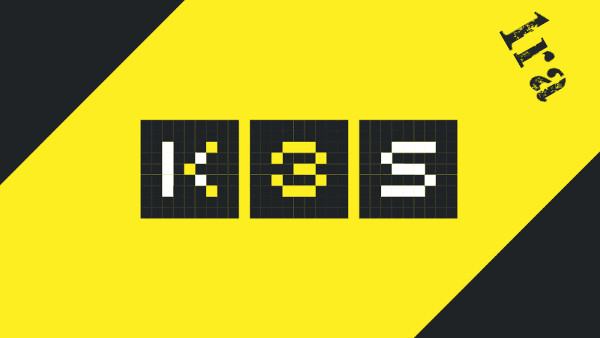
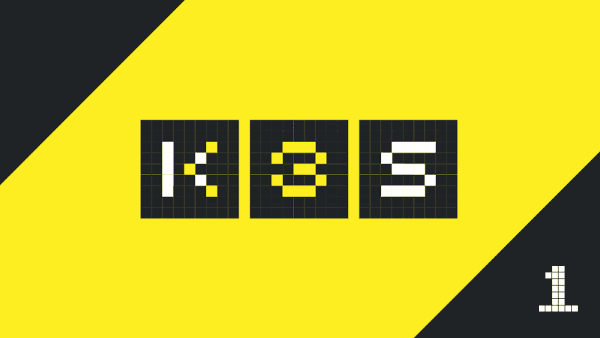
beta version article k3s

Changed region(s): [[0.81, 0.0296, 0.96, 0.2959], [0.9, 0.7692, 0.96, 0.9467]]

diff --git a/content/post/infrastructure/k3s-notes-second.en.md b/content/post/infrastructure/k3s-notes-second.en.md
@@ -16,122 +16,133 @@ series = ["Servidores"]
 thumbnail = "images/k3s-kubernetes/k3s-kubernetes-part-2.png"
 +++
 
-Experimentando con [**Docker Swarm**](https://docs.docker.com/engine/swarm/) me puse a la tarea de armar algo con los [**Raspberry Pi (RPI v3, RPI v4)**](https://www.raspberrypi.org/) que tengo en mi laboratorio, luego de estar googleando y charlando con [**Sergio**](https://twitter.com/donkeysharp), me recomendó usar [**K3s**](https://k3s.io/) que es una distribución de [**Kubernetes**](https://kubernetes.io/) con backend de almacenamiento ligero basado en [**sqlite3**](https://www.sqlite.org/index.html) compatible con arquitectura [**ARM**](https://en.wikipedia.org/wiki/ARM_architecture).
+We continue with the tests in our small cluster with [**K3s**](https://k3s.io/) built on the [**Raspberry Pi (RPI v3, RPI v4)**](https://www.raspberrypi.org/) that I have in my laboratory, for the tests we use the official [**K3s - Rancher**](https://rancher.com/docs/k3s/latest/en/) documentation and also the official [**Kubernetes**](https://kubernetes.io/docs/tutorials/kubernetes-basics/) documentation.
 
 <!--more-->
 
 ![](/images/k3s-kubernetes/k3s-rpi-v3-v4.jpg)
 
-Revisamos la documentación oficial de [**K3s**](https://rancher.com/docs/k3s/latest/en/) y pude armar mi laboratorio, el tipo de ejercicio que se desarrollara sera un **Server node** y cuatro **Worker nodes** con la  base de datos [**sqlite3**](https://www.sqlite.org/index.html).
+In the image we have as a detail:
 
-## Arquitectura
+1. **Three Raspberry Pi 4, Model B** (1 Server Node and 2 Worker Nodes).
+2. **Two Raspberry Pi 3, Model B** (2 Worker Nodes,).
+3. One **8-port Tp-Link TL-SG1008D Gigabit Desktop Switch**.
 
-Existen dos tipos de nodos:
+## Basic concepts
 
-1. **Server node**, es el nodo que ejecuta **K3s server**.
-2. **Worker node**, es el nodo que ejecuta **K3s agent**.
+With the Kubernetes components:
 
-También existen dos formas de implementación:
+![](/images/k3s-kubernetes/components-of-kubernetes.png)
 
-1. **Un solo servidor con una base de datos integrada**, en esta configuración, cada nodo de agente está registrado en el mismo **Server node**.
+We can describe some important components:
 
-![](/images/k3s-kubernetes/k3s-architecture-single-server.png)
+1. **kube-apiserver**: The API server is a component of the Kubernetes control plane that exposes the Kubernetes API. The API server is the front end for the Kubernetes control plane.
+2. **etcd**: Consistent, highly available *key-value* database used as the Kubernetes backing store for all data in the cluster.
+3. **kube-scheduler**: A control plane component that searches for newly created pods without an assigned node and selects a node to run.
+4. **kube-controller-manager**: Control plane component that runs controller processes.
 
-2. **Servidor K3s de Alta Disponibilidad con una base de datos externa**, que se compone de:
+    - *Node controller*: Responsible for noticing and responding when nodes go down.
+    - *Job controller*: Watches for Job objects that represent one-off tasks, then creates Pods to run those tasks to completion.
+    - *Endpoints controller*: Populates the Endpoints object (that is, joins Services & Pods).
+    - *Service Account & Token controllers*: Create default accounts and API access tokens for new namespaces.
 
-   - Dos o más **nodos de servidor** que servirán a la API de **Kubernetes** y ejecutarán otros servicios del plano de control.
-   - Un **almacén de datos externo** (a diferencia del almacén de datos SQLite incorporado que se usa en configuraciones de un solo servidor).
+5. **cloud-controller-manager**: A Kubernetes control plane component that incorporates cloud-specific control logic (runs in a single process with *kube-controller-manager*).
 
-![](/images/k3s-kubernetes/k3s-architecture-ha-server.png)
+    - *Node controller*: For checking the cloud provider to determine if a node has been deleted in the cloud after it stops responding.
+    - *Route controller*: For setting up routes in the underlying cloud infrastructure.
+    - *Service controller*: For creating, updating and deleting cloud provider load balancers.
 
-2.1 **Direcciones de registro fija para nodos agente**
+6. **kubelet**: An agent running on each node in the cluster ensures that the containers run on a Pod.
+7. **kube-proxy**: It is a network proxy that runs on every node in your cluster, implementing part of the Kubernetes service concept.
+8. **container runtime**: The container runtime is the software responsible for running the containers.
+9. **kube-scheduler**: A control plane component that searches for newly created pods without an assigned node and selects a node to run.
 
-En la configuración del servidor de alta disponibilidad, cada nodo también debe registrarse con la API de **Kubernetes** mediante una dirección de registro fija, después del registro, los nodos del agente establecen una conexión directamente con uno de los **Server nodes**.
+## Install Kubectl
 
-![](/images/k3s-kubernetes/k3s-production-setup.svg)
-
-## Configuraciones Previas
-
-- [**Configuraciones necesarias RPI**](https://rancher.com/docs/k3s/latest/en/advanced/#enabling-legacy-iptables-on-raspbian-buster): Antes de instalar los binarios de [**K3s**](https://k3s.io/) es necesario realizar unas configuraciones extra en el sistema operativo de las [**Raspberry Pi**](https://www.raspberrypi.org/), utilizaremos **Raspbian Buster** para este laboratorio.
-
-- **Habilitar iptables heredados en Raspbian Buster**
-
-**Raspbian Buster** utiliza de forma predeterminada en **nftables** en lugar de **iptables**. Las funciones de red de **K3s** requieren **iptables** y no funcionan con **nftables**, para solucionar este problema debemos realizar el cambio correspondiente.
-
-```bash
-$ sudo iptables -F
-$ sudo update-alternatives --set iptables /usr/sbin/iptables-legacy
-$ sudo update-alternatives --set ip6tables /usr/sbin/ip6tables-legacy
-$ sudo reboot
-```
-
-- **Habilitando cgroups para Raspbian Buster**
-
-Las instalaciones estándar de **Raspbian Buster** no se inicializan con **cgroups** habilitado. **K3s** necesita **cgroups** inicializado como un servicio systemd. Se puede habilitar **cgroups** agregando **cgroup_memory=1** y **cgroup_enable=memory** en **/boot/cmdline.txt**.
-
-```text
-# Dentro del archivo cmdline.txt
-console=serial0,115200 console=tty1 root=PARTUUID=58b06195-02 rootfstype=ext4 elevator=deadline fsck.repair=yes rootwait cgroup_memory=1 cgroup_enable=memory
-```
-
-Con estos cambios aplicados se debe reiniciar el sistema operativo en los **Raspberry Pi**.
-
-## Instalación del Server node
-
-Según la documentación oficial podemos utilizar los scripts oficiales para instalar los binarios para el **Server node** de **K3s**:
+In order to work with our [K3s](https://k3s.io/) **RPI** cluster, we can work from the **Server Node** or install [kubectl](https://kubernetes.io/docs/tasks/tools/install-kubectl-linux/) on our personal computer, in this case we will install the package for a [GNU/Linux](https://www.gnu.org/home.en.html) distribution, [**Debian Buster 10**](https://debian.org), adding the repository as follows:
 
 ```bash
-$ curl -sfL https://get.k3s.io | sh -
+# Update and install the necessary packages
+$ sudo apt-get update
+$ sudo apt-get install -y apt-transport-https ca-certificates curl
+# We download the public signature key
+$ sudo curl -fsSLo /usr/share/keyrings/kubernetes-archive-keyring.gpg https://packages.cloud.google.com/apt/doc/apt-key.gpg
+# Add the official repository
+$ echo "deb [signed-by=/usr/share/keyrings/kubernetes-archive-keyring.gpg] https://apt.kubernetes.io/ kubernetes-xenial main" | sudo tee /etc/apt/sources.list.d/kubernetes.list
+# Update again and install the package
+$ sudo apt install update
+$ sudo apt install -y kubectl
 ```
 
-Este script instalará todas la herramientas necesarias como: 
+## Kubectl Configuration with Cluster K3s
 
-- **kubectl**
-- **crictl**
-- **ctr**
-- **k3s-killall.sh**
-- **k3s-uninstall.sh**
-
-También creara el archivo de configuración **/etc/rancher/k3s/k3s.yaml**
-
-## Instalación de Worker Nodes
-
-Luego de la instalación del servidor **K3s** podemos agregar nodos: 
+To work from our personal computer, we have to create a configuration file inside the **.kube** folder, the configuration file must have the name **config**, the folder and the file must be created with the appropriate permissions :
 
 ```bash
-$ curl -sfL https://get.k3s.io | K3S_URL=https://myserver:6443 K3S_TOKEN=mynodetoken sh -
+$ mkdir ~/.kube
+$ touch ~/.kube/config
+$ chmod 775 ~/.kube
+$ chmod 420 ~/.kube/config
 ```
 
-donde:
+The content of the **config** file should look like this:
 
-- **K3S_URL**: Esta es la dirección IP o el dominio del servidor **K3s**.
-- **K3S_TOKEN**: Es un token que se almacena en el servidor **K3s**, **/var/lib/rancher/k3s/server/node-token**
-- Es necesario que el hostname de los nuevos nodos sean diferentes.
-
-## Operaciones Básicas
-
-Podemos ejecutar los comandos comunes de **Kubernetes** o utilizar el comando **K3s**, a estos dos comandos debemos anteponerle el comando **sudo** para que se ejecuten las ordenes sin problemas.
-
-```bash
-$ sudo k3s kubectl get nodes
-# o también
-$ sudo kubectl get nodes
-$ sudo kubectl get pods --all-namespaces
+```yaml
+apiVersion: v1
+clusters:
+- cluster:
+    certificate-authority-data: CERTIFICATE_CONTENT
+    server: https://IP_OR_DOMAIN:6443
+  name: default
+contexts:
+- context:
+    cluster: default
+    user: default
+  name: default
+current-context: default
+kind: Config
+preferences: {}
+users:
+- name: default
+  user:
+    client-certificate-data: CERTIFICATE_CONTENT
+    client-key-data: CERTIFICATE_CONTENT_KEY
 ```
 
-Control daemon:
+This data can be obtained from the **Server Node**, exactly the data is in **/etc/rancher/k3s/k3s.yaml**.
+
+## Testing After Installation
+
+From our local computer we can execute the following commands:
 
 ```bash
-$ sudo systemctl status k3s
-$ sudo systemctl stop k3s
+$ kubectl version
+# If there is a problem with the previous command we can execute:
+$ kubectl version --client=true
+```
+
+If everything is correct we will have an output similar to this:
+
+![](/images/k3s-kubernetes/kubectl-version-tests-v2.png)
+
+Comandos útiles para iniciar:
+
+```bash
+# Obtener ayuda
+$ kubectl --help
+# Listar todos los contextos en su archivo kubeconfig
+$ kubectl config get-contexts
+# Listar todos los nodos disponibles
+$ kubectl get nodes
 ```
 
 ## Referencias
 
-- [**Inicio Rapido**](https://rancher.com/docs/k3s/latest/en/quick-start/)
-- [**Configuración del Servidor**](https://rancher.com/docs/k3s/latest/en/installation/install-options/server-config/)
-- [**Opciones de Instalación**](https://rancher.com/docs/k3s/latest/en/installation/install-options/)
+- [**Quick start**](https://rancher.com/docs/k3s/latest/en/quick-start/)
 - [**Kube Dashboard**](https://rancher.com/docs/k3s/latest/en/installation/kube-dashboard/)
 - [**Docs K3S**](https://rancher.com/docs/)
-- [**Web Oficial**](https://k3s.io/)
-- [**Arquitectura**](https://rancher.com/docs/k3s/latest/en/architecture/)
+- [**Kubernetes Concepts**](https://kubernetes.io/docs/concepts/_print/)
+- [**Docs Kubernetes**](https://kubernetes.io/docs/tutorials/kubernetes-basics/)
+- [**etcd**](https://etcd.io/)
+- [**Cluster Admin Access**](https://rancher.com/docs/rancher/v2.x/en/cluster-admin/cluster-access/kubectl/)
+- [**Cluster Accesss**](https://rancher.com/docs/k3s/latest/en/cluster-access/)

diff --git a/content/post/infrastructure/k3s-notes-second.es.md b/content/post/infrastructure/k3s-notes-second.es.md
@@ -40,33 +40,109 @@ Podemos describir algunos componentes importantes:
 2. **etcd**: Base de datos de tipo *clave-valor* consistente y de alta disponibilidad utilizado como almacén de respaldo de Kubernetes para todos los datos del clúster.
 3. **kube-scheduler**: Componente del plano de control que busca pods recién creados sin un nodo asignado y selecciona un nodo para que se ejecuten.
 4. **kube-controller-manager**: Componente del plano de control que ejecuta los procesos del controlador.
-    - *Controlador de nodo*: responsable de notar y responder cuando los nodos se caen.
+
+    - *Controlador de nodo*: Responsable de notar y responder cuando los nodos se caen.
     - *Controlador de trabajo*: Busca objetos de trabajo que representan tareas únicas y luego crea pods para ejecutar esas tareas hasta su finalización.
     - *Controlador de puntos finales*: Completa el objeto de puntos finales (es decir, se une a servicios y pods).
     - *Controladores de cuentas de servicio y tokens*: Crea cuentas predeterminadas y tokens de acceso a la API para nuevos espacios de nombres.
+
 5. **cloud-controller-manager**: Un componente del plano de control de Kubernetes que incorpora una lógica de control específica de la nube (se ejecuta en un solo proceso con *kube-controller-manager*).
 
-    - *Controlador de nodo*: para verificar el proveedor de la nube para determinar si un nodo se ha eliminado en la nube después de que deja de responder
-    - *Controlador de ruta*: para configurar rutas en la infraestructura de nube subyacente
-    - Controlador de servicio*: para crear, actualizar y eliminar equilibradores de carga de proveedores de nube
-6. **kubelet**: Un agente que se ejecuta en cada nodo del clúster. Se asegura de que los contenedores se ejecuten en un Pod.
+    - *Controlador de nodo*: Para verificar el proveedor de la nube para determinar si un nodo se ha eliminado en la nube después de que deja de responder.
+    - *Controlador de ruta*: Para configurar rutas en la infraestructura de nube subyacente.
+    - Controlador de servicio*: Para crear, actualizar y eliminar equilibradores de carga de proveedores de nube.
 
+6. **kubelet**: Un agente que se ejecuta en cada nodo del clúster, se asegura de que los contenedores se ejecuten en un Pod.
 7. **kube-proxy**: Es un proxy de red que se ejecuta en cada nodo de su clúster, implementando parte del concepto de servicio de Kubernetes.
 8. **container runtime**: El tiempo de ejecución del contenedor es el software responsable de ejecutar los contenedores.
+9. **kube-scheduler**: Componente del plano de control que busca pods recién creados sin un nodo asignado y selecciona un nodo para que se ejecuten.
 
-## Configuraciones Previas
+## Instalación Kubectl
 
-## Instalación del Server node
+Para poder trabajar con nuestro cluter **RPI** de [K3s](https://k3s.io/), podemos trabajar desde el **Server Node** o instalar [kubectl](https://kubernetes.io/docs/tasks/tools/install-kubectl-linux/) en nuestra computadora personal, para este caso instalaremos el paquete para una distribución [GNU/Linux](https://www.gnu.org/home.es.html), [Debian Buster 10](https://debian.org) agregando el repositorio de la siguiente forma:
 
-## Instalación de Worker Nodes
+```bash
+# Actualizar e instalar los paquetes necesarios
+$ sudo apt-get update
+$ sudo apt-get install -y apt-transport-https ca-certificates curl
+# Descargamos la clave de firma pública
+$ sudo curl -fsSLo /usr/share/keyrings/kubernetes-archive-keyring.gpg https://packages.cloud.google.com/apt/doc/apt-key.gpg
+# Agregar el repositorio oficial
+$ echo "deb [signed-by=/usr/share/keyrings/kubernetes-archive-keyring.gpg] https://apt.kubernetes.io/ kubernetes-xenial main" | sudo tee /etc/apt/sources.list.d/kubernetes.list
+# Actualizar nuevamente e instalamos el paquete
+$ sudo apt install update
+$ sudo apt install -y kubectl
+```
 
-## Operaciones Básicas
+## Configuración de Kubectl con el Cluster K3s
+
+Para trabajar desde nuestra computadora personal, tenemos que crear un archivo de configuración dentro de la carpeta **.kube** el archivo de configuración debe tener el nombre **config**, la carpeta y el archivo deben ser creados con los permisos adecuados:
+
+```bash
+$ mkdir ~/.kube
+$ touch ~/.kube/config
+$ chmod 775 ~/.kube
+$ chmod 420 ~/.kube/config
+```
+
+El contenido del archivo **config** debe ser similar a este:
+
+```yaml
+apiVersion: v1
+clusters:
+- cluster:
+    certificate-authority-data: CONTENIDO_DEL_CERTIFICADO
+    server: https://IP_O_DOMINIO:6443
+  name: default
+contexts:
+- context:
+    cluster: default
+    user: default
+  name: default
+current-context: default
+kind: Config
+preferences: {}
+users:
+- name: default
+  user:
+    client-certificate-data: CONTENIDO_DEL_CERTIFICADO
+    client-key-data: CONTENIDO_DE_LA_CLAVE_DEL_CERTIFICADO
+```
+
+Estos datos se pueden obtener desde el **Server Node**, exactamente el dato se encuentra en **/etc/rancher/k3s/k3s.yaml**.
+
+## Pruebas Después de la Instalación
+
+Desde nuestra computadora local podemos ejecutar los siguientes comandos:
+
+```bash
+$ kubectl version
+# Si existe algún problema con el anterior comando podemos ejecutar:
+$ kubectl version --client=true
+```
+
+Si todo está correcto tendremos una salida similar a esta:
+
+![](/images/k3s-kubernetes/kubectl-version-tests-v2.png)
+
+Useful commands to start:
+
+```bash
+# Get help
+$ kubectl --help
+# List all contexts in your kubeconfig file
+$ kubectl config get-contexts
+# List all available nodes
+$ kubectl get nodes
+```
 
 ## Referencias
 
-- [**Inicio Rapido**](https://rancher.com/docs/k3s/latest/en/quick-start/)
+- [**Inicio Rápido**](https://rancher.com/docs/k3s/latest/en/quick-start/)
 - [**Kube Dashboard**](https://rancher.com/docs/k3s/latest/en/installation/kube-dashboard/)
 - [**Docs K3S**](https://rancher.com/docs/)
 - [**Conceptos Kubernetes**](https://kubernetes.io/docs/concepts/_print/)
 - [**Docs Kubernetes**](https://kubernetes.io/docs/tutorials/kubernetes-basics/)
 - [**etcd**](https://etcd.io/)
+- [**Cluster Admin Access**](https://rancher.com/docs/rancher/v2.x/en/cluster-admin/cluster-access/kubectl/)
+- [**Cluster Accesss**](https://rancher.com/docs/k3s/latest/en/cluster-access/)
